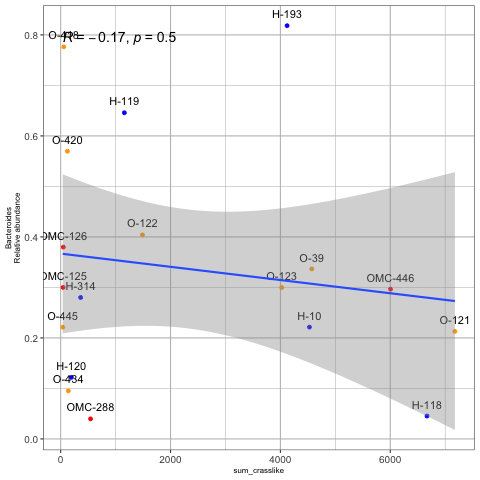
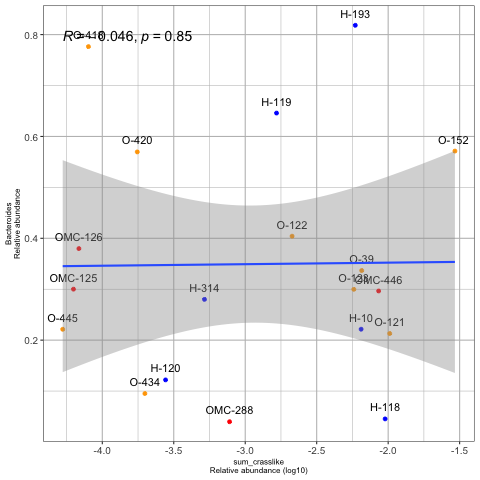
Creation of host crasslike

Changed region(s): [[0.0, 0.0, 1.0, 1.0], [0.2188, 0.1875, 0.2812, 0.25], [0.5625, 0.7812, 0.5938, 0.8438]]

diff --git a/02_corr_spearman/plots_host_wo152.md b/02_corr_spearman/plots_host_wo152.md
@@ -1,0 +1,33 @@
+# Host without 152
+
+## Sum
+
+![crasslike_sample..sum_crasslike_Bacteroidales](/Users/luigui/Documents/mel_crassphage_2022/02_corr_spearman/04_plots_wo152/crasslike_sample..sum_crasslike_Bacteroidales.png)
+
+![crasslike_sample..sum_crasslike_Bacteroides](/Users/luigui/Documents/mel_crassphage_2022/02_corr_spearman/04_plots_wo152/crasslike_sample..sum_crasslike_Bacteroides.png)
+
+![crasslike_sample..sum_crasslike_Bacteroidetes](/Users/luigui/Documents/mel_crassphage_2022/02_corr_spearman/04_plots_wo152/crasslike_sample..sum_crasslike_Bacteroidetes.png)
+
+![crasslike_sample..sum_crasslike_Bacteroidia](/Users/luigui/Documents/mel_crassphage_2022/02_corr_spearman/04_plots_wo152/crasslike_sample..sum_crasslike_Bacteroidia.png)
+
+![crasslike_sample..sum_crasslike_Collinsella](/Users/luigui/Documents/mel_crassphage_2022/02_corr_spearman/04_plots_wo152/crasslike_sample..sum_crasslike_Collinsella.png)
+
+![crasslike_sample..sum_crasslike_Prevotella](/Users/luigui/Documents/mel_crassphage_2022/02_corr_spearman/04_plots_wo152/crasslike_sample..sum_crasslike_Prevotella.png)
+
+![crasslike_sample..sum_crasslike_Prevotellaceae](/Users/luigui/Documents/mel_crassphage_2022/02_corr_spearman/04_plots_wo152/crasslike_sample..sum_crasslike_Prevotellaceae.png)
+
+## Average
+
+![crasslike_average_crasslike_Bacteroidales](/Users/luigui/Documents/mel_crassphage_2022/02_corr_spearman/04_plots_wo152/crasslike_average_crasslike_Bacteroidales.png)
+
+![crasslike_average_crasslike_Bacteroides](/Users/luigui/Documents/mel_crassphage_2022/02_corr_spearman/04_plots_wo152/crasslike_average_crasslike_Bacteroides.png)
+
+![crasslike_average_crasslike_Bacteroidetes](/Users/luigui/Documents/mel_crassphage_2022/02_corr_spearman/04_plots_wo152/crasslike_average_crasslike_Bacteroidetes.png)
+
+![crasslike_average_crasslike_Bacteroidia](/Users/luigui/Documents/mel_crassphage_2022/02_corr_spearman/04_plots_wo152/crasslike_average_crasslike_Bacteroidia.png)
+
+![crasslike_average_crasslike_Collinsella](/Users/luigui/Documents/mel_crassphage_2022/02_corr_spearman/04_plots_wo152/crasslike_average_crasslike_Collinsella.png)
+
+![crasslike_average_crasslike_Prevotella](/Users/luigui/Documents/mel_crassphage_2022/02_corr_spearman/04_plots_wo152/crasslike_average_crasslike_Prevotella.png)
+
+![crasslike_average_crasslike_Prevotellaceae](/Users/luigui/Documents/mel_crassphage_2022/02_corr_spearman/04_plots_wo152/crasslike_average_crasslike_Prevotellaceae.png)

diff --git a/02_corr_spearman/plots_host.md b/02_corr_spearman/plots_host.md
@@ -1,0 +1,33 @@
+# Host crassphage
+
+## Sum
+
+![crasslike_sum_crasslike_Bacteroidales](/Users/luigui/Documents/mel_crassphage_2022/02_corr_spearman/01_plots/crasslike_sum_crasslike_Bacteroidales.png)
+
+![crasslike_sum_crasslike_Bacteroides](/Users/luigui/Documents/mel_crassphage_2022/02_corr_spearman/01_plots/crasslike_sum_crasslike_Bacteroides.png)
+
+![crasslike_sum_crasslike_Bacteroidetes](/Users/luigui/Documents/mel_crassphage_2022/02_corr_spearman/01_plots/crasslike_sum_crasslike_Bacteroidetes.png)
+
+![crasslike_sum_crasslike_Bacteroidia](/Users/luigui/Documents/mel_crassphage_2022/02_corr_spearman/01_plots/crasslike_sum_crasslike_Bacteroidia.png)
+
+![crasslike_sum_crasslike_Collinsella](/Users/luigui/Documents/mel_crassphage_2022/02_corr_spearman/01_plots/crasslike_sum_crasslike_Collinsella.png)
+
+![crasslike_sum_crasslike_Prevotella](/Users/luigui/Documents/mel_crassphage_2022/02_corr_spearman/01_plots/crasslike_sum_crasslike_Prevotella.png)
+
+![crasslike_sum_crasslike_Prevotellaceae](/Users/luigui/Documents/mel_crassphage_2022/02_corr_spearman/01_plots/crasslike_sum_crasslike_Prevotellaceae.png)
+
+## Average
+
+![crasslike_average_crasslike_Bacteroidales](/Users/luigui/Documents/mel_crassphage_2022/02_corr_spearman/01_plots/crasslike_average_crasslike_Bacteroidales.png)
+
+![crasslike_average_crasslike_Bacteroides](/Users/luigui/Documents/mel_crassphage_2022/02_corr_spearman/01_plots/crasslike_average_crasslike_Bacteroides.png)
+
+![crasslike_average_crasslike_Bacteroidetes](/Users/luigui/Documents/mel_crassphage_2022/02_corr_spearman/01_plots/crasslike_average_crasslike_Bacteroidetes.png)
+
+![crasslike_average_crasslike_Bacteroidia](/Users/luigui/Documents/mel_crassphage_2022/02_corr_spearman/01_plots/crasslike_average_crasslike_Bacteroidia.png)
+
+![crasslike_average_crasslike_Collinsella](/Users/luigui/Documents/mel_crassphage_2022/02_corr_spearman/01_plots/crasslike_average_crasslike_Collinsella.png)
+
+![crasslike_average_crasslike_Prevotella](/Users/luigui/Documents/mel_crassphage_2022/02_corr_spearman/01_plots/crasslike_average_crasslike_Prevotella.png)
+
+![crasslike_average_crasslike_Prevotellaceae](/Users/luigui/Documents/mel_crassphage_2022/02_corr_spearman/01_plots/crasslike_average_crasslike_Prevotellaceae.png)
